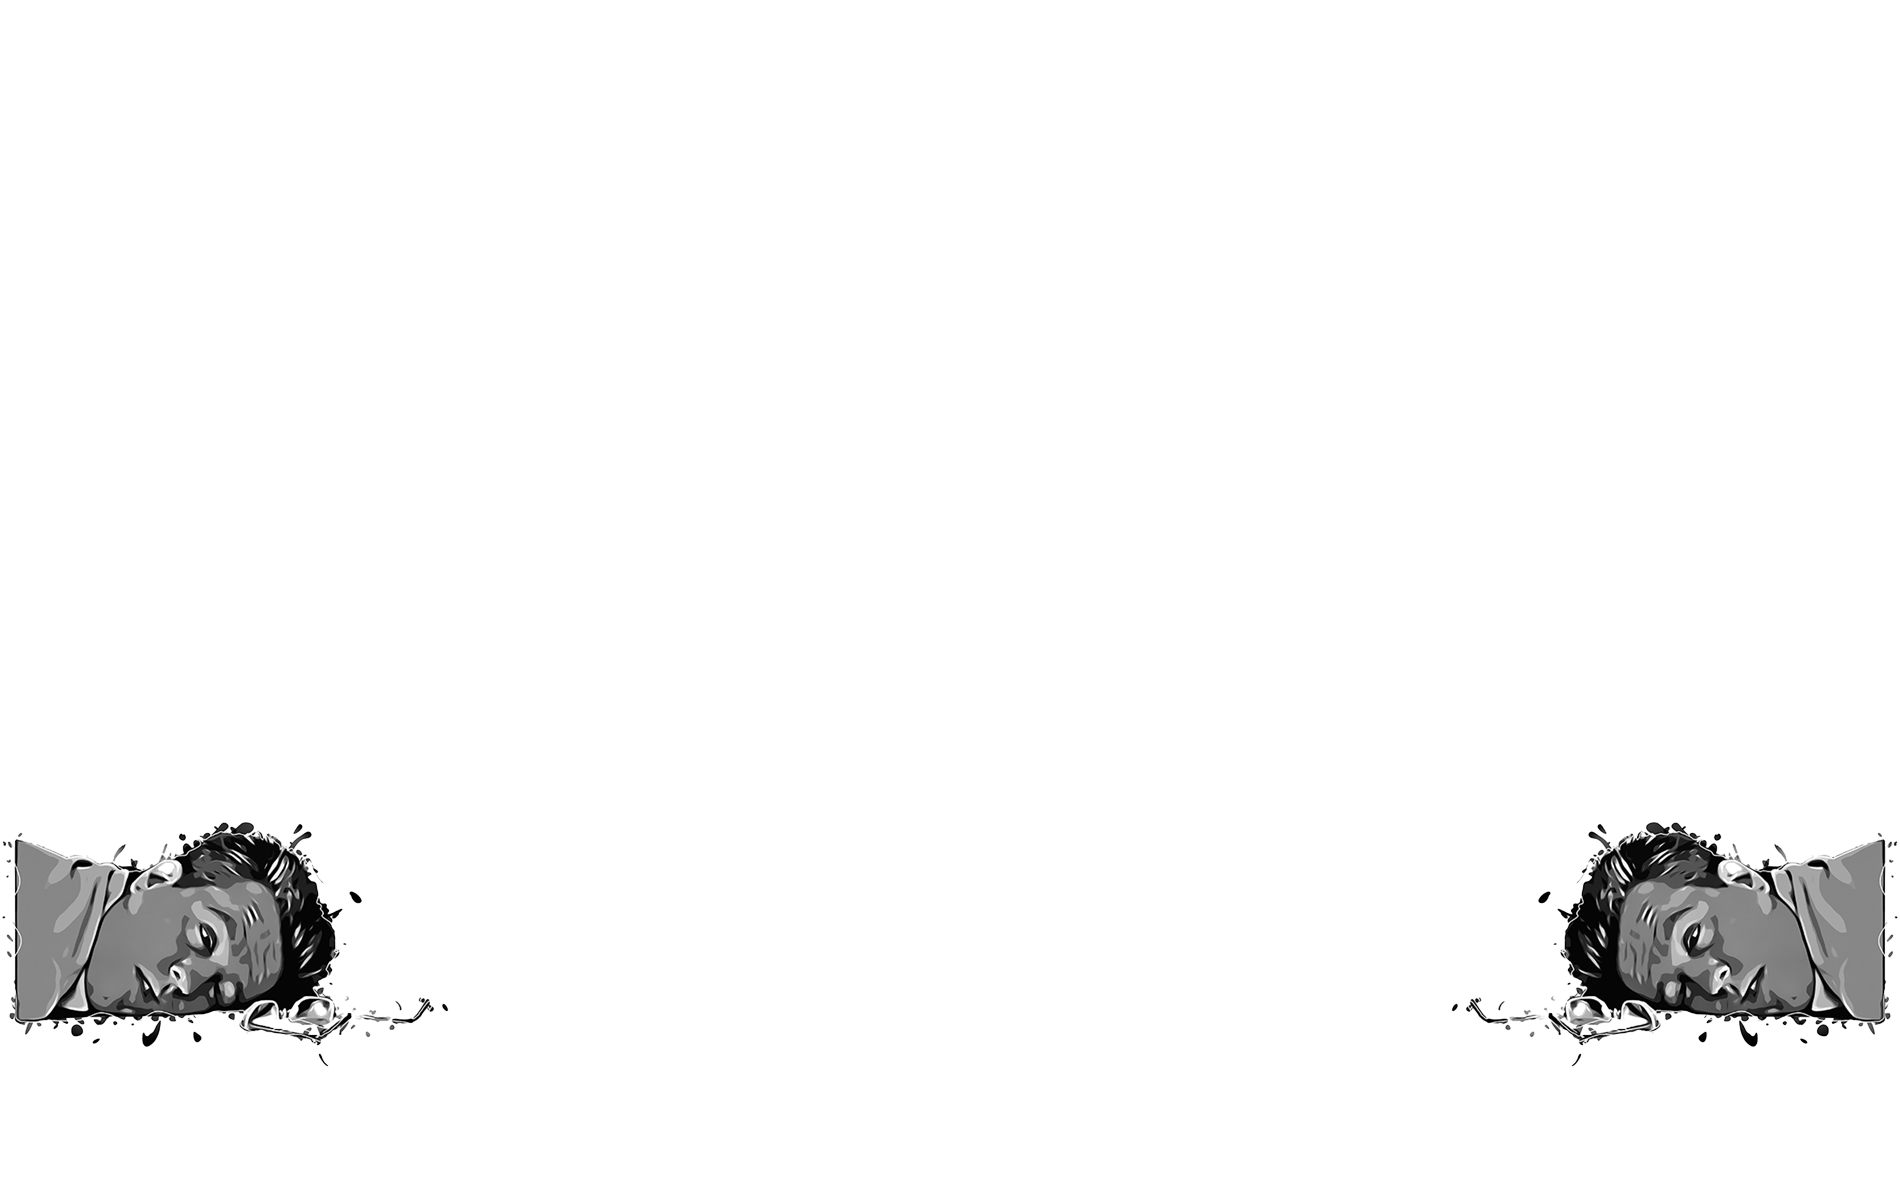
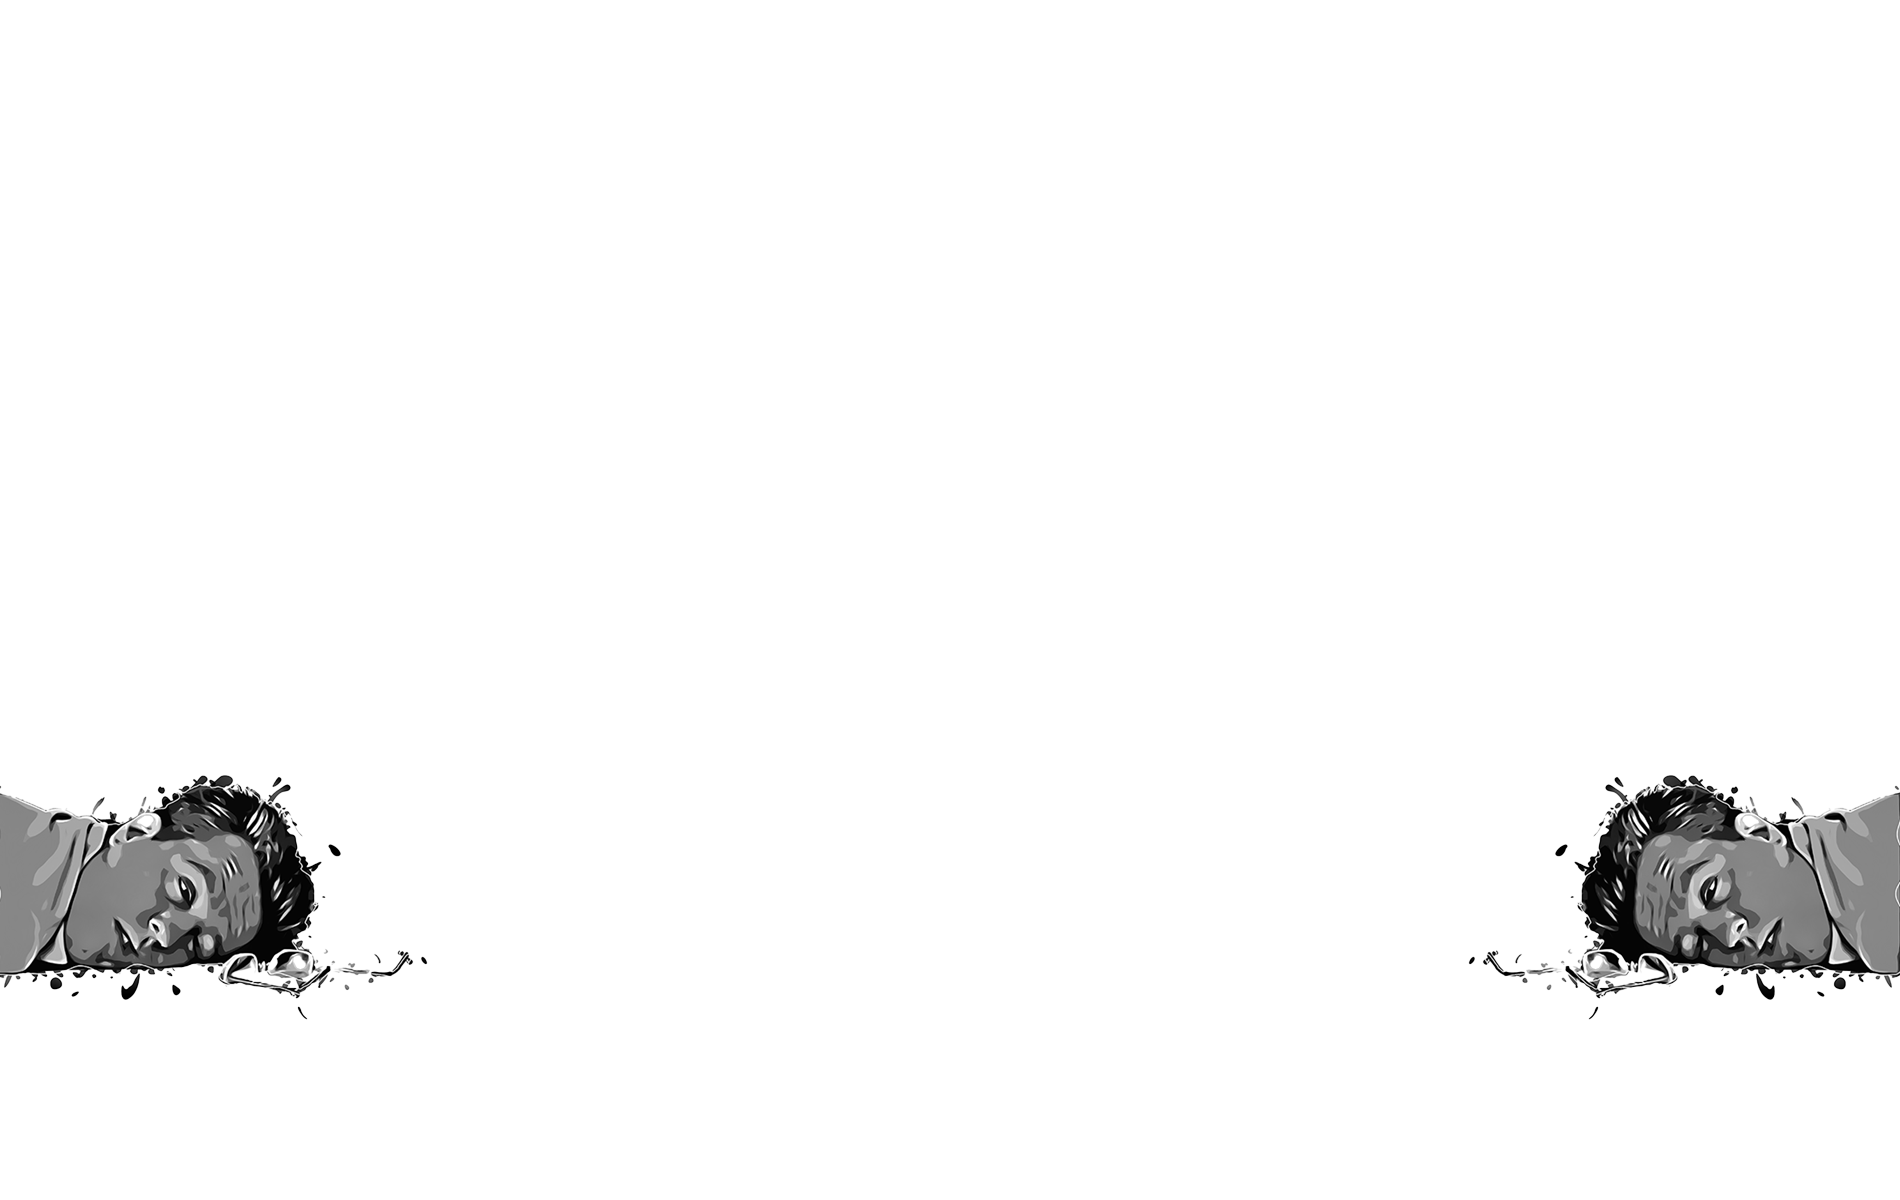
Update BG Settings

Changed region(s): [[0.7763, 0.6475, 1.0, 0.8633], [0.0, 0.6475, 0.2484, 0.8633]]

diff --git a/public/styles/light-new.css b/public/styles/light-new.css
@@ -933,11 +933,10 @@ body {
   /*--body-bg: #f8f8f8 url("https://knuckleheads.netlify.app/images/backgrounds/Hangover.png"), url("https://knuckleheads.netlify.app/images/backgrounds/BG-FB-Field-Light.jpg");*/
   background-image: url("https://knuckleheads.netlify.app/images/backgrounds/Hangover.png"), url("https://knuckleheads.netlify.app/images/backgrounds/BG-FB-Field-Light.jpg");
   background-attachment: fixed;
-  background-position: center top;
+  background-position: center center;
   background-repeat: no-repeat no-repeat;
   -webkit-font-smoothing: antialiased !important;
-  /*height: 1200px;*/
-  margin: auto;
+  margin: 5% 0;
   width: 100%;
   overflow-y: scroll;
 }
